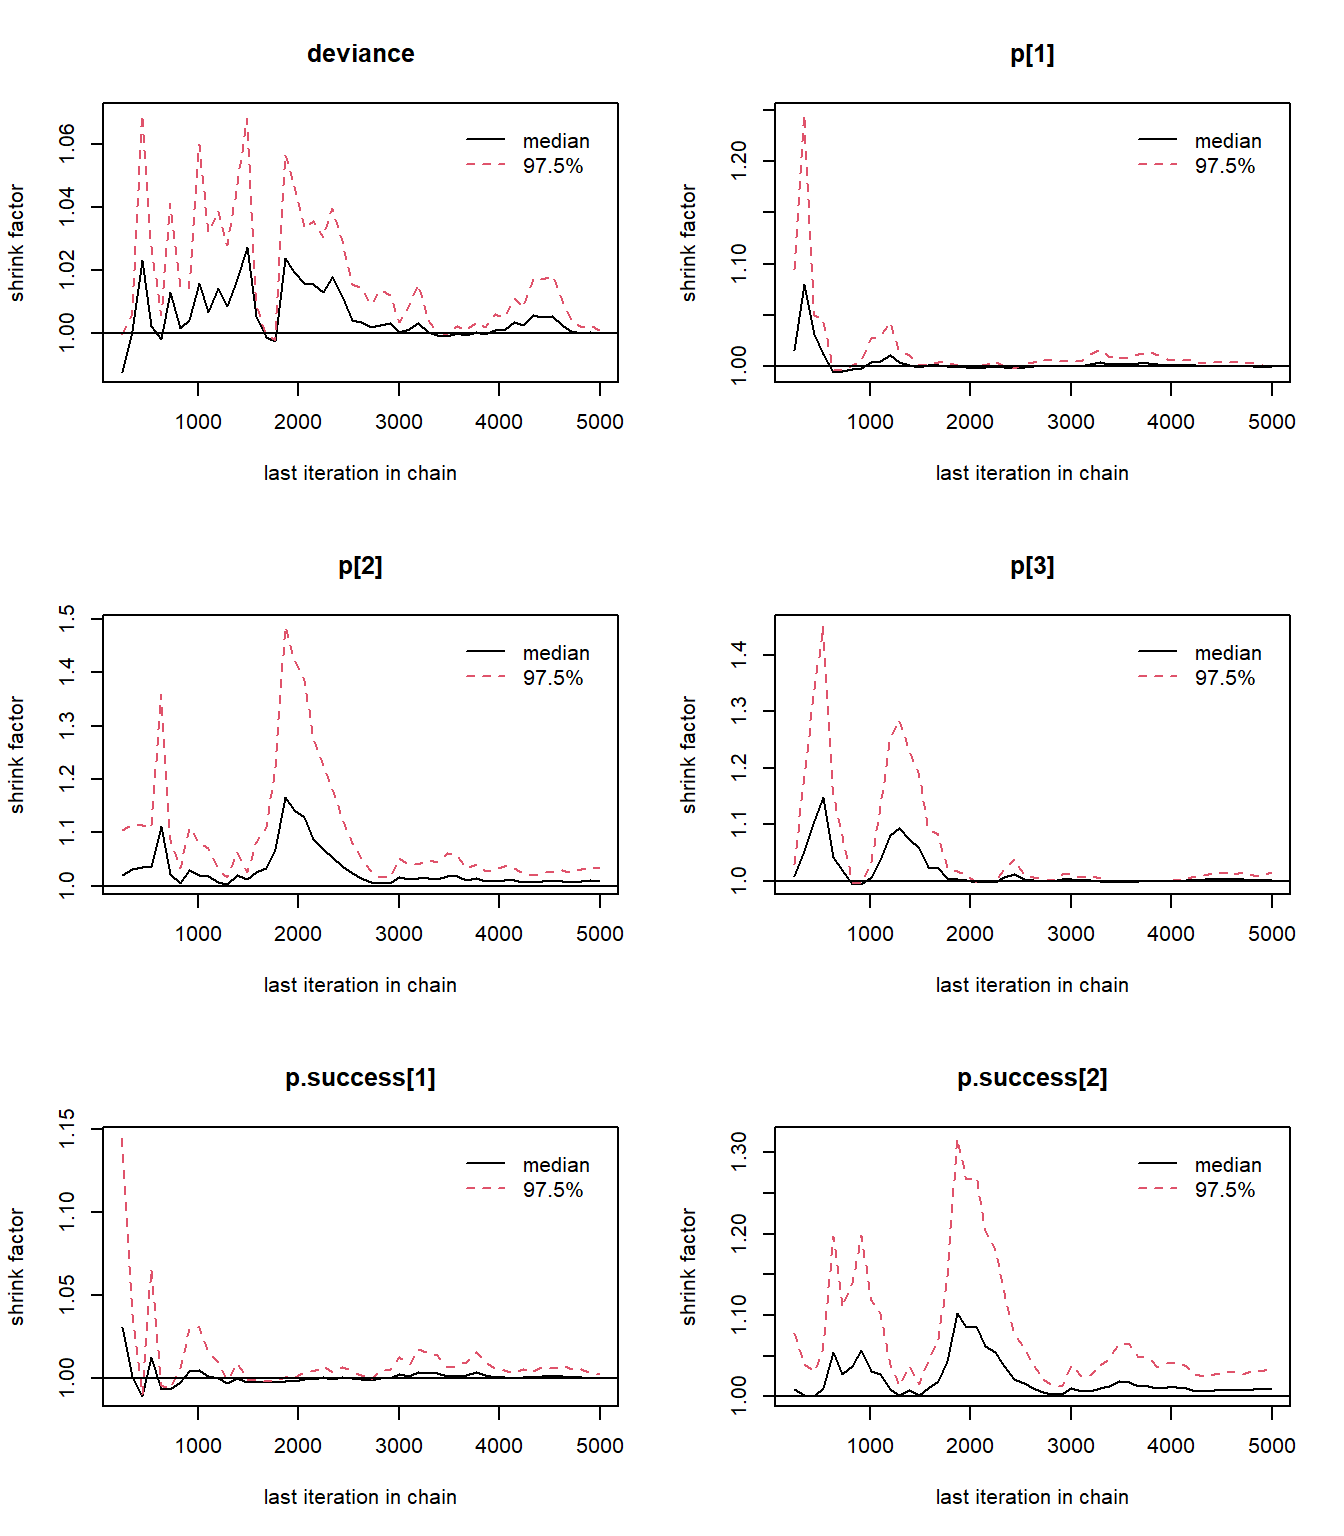
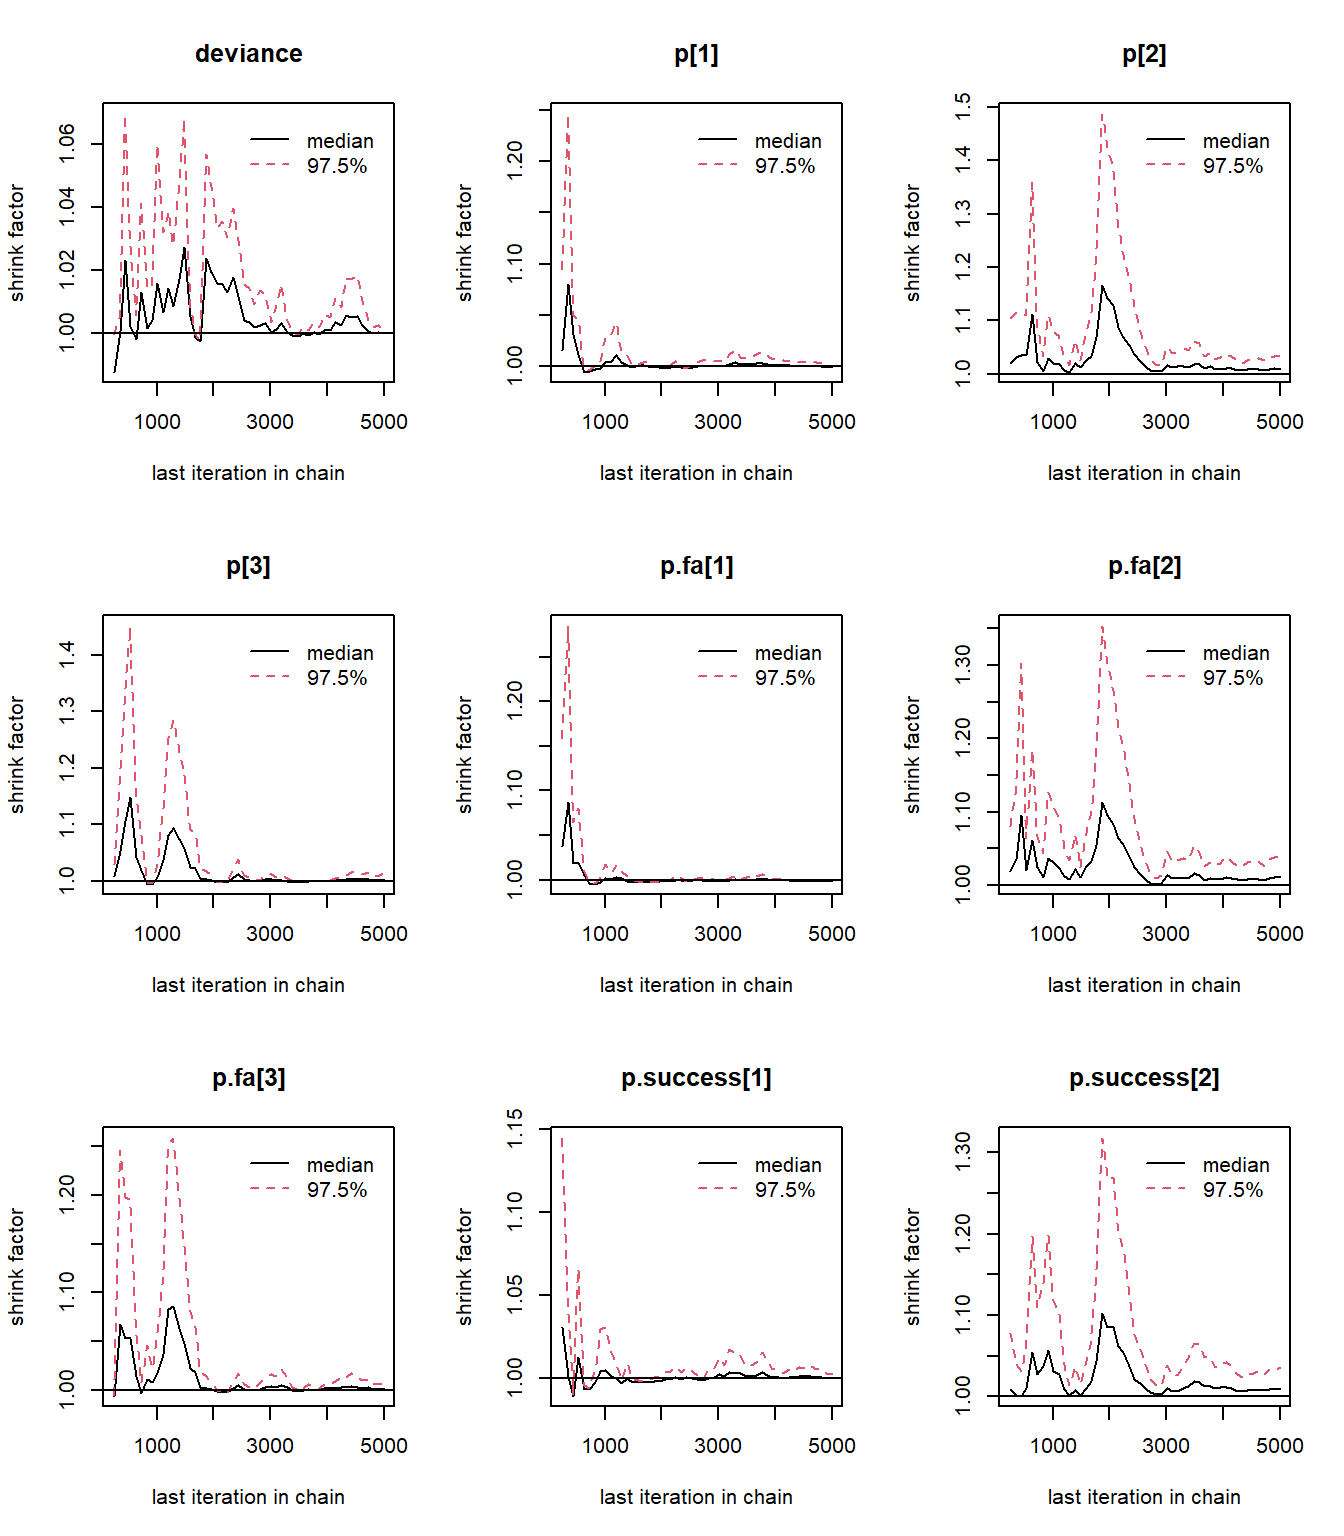
aaa

diff --git a/1_Bouquet_Borrowing_X_Cohort.html b/1_Bouquet_Borrowing_X_Cohort.html
@@ -284,8 +284,9 @@ binary_exnex_model2 &lt;- function() {
 ## Parameter(s) to be monitored
 # p            - posterior response rate
 # p.success    - posterior indicator if p &gt; p.cut
+# p.fa         - posterior predictive observed response rate at FA
 # pMix         - posterior mixture weight to test for &quot;exchangeability&quot;
-# p.success_fa - posterior indicator if r_fa/n_fa &gt; p.cut
+# p.success_fa - posterior predictive indicator if r_fa/n_fa &gt; p.cut
 #-------------------------------------------------------------------------------
   
   # prior distributions for EX-parameters
@@ -343,11 +344,11 @@ binary_exnex_model2 &lt;- function() {
     }    
   }
 
-
   # predictive part
   for (i in 1:Nstrata) {  
     r_fa[i] ~ dbin(p[i], n_fa[i])
-    p.success_fa[i]  &lt;- step(r_fa[i]/n_fa[i]-p.cut)
+    p.fa[i] &lt;- r_fa[i]/n_fa[i]
+    p.success_fa[i]  &lt;- step(p.fa[i]-p.cut)
   }
   
 } # end of binary_exnex_model2
@@ -355,7 +356,7 @@ binary_exnex_model2 &lt;- function() {
 write.model(binary_exnex_model2, &#39;binary_exnex_model2.bug&#39;)
 
 ### Parameters to monitor
-parameters_binary_exnex_model2 &lt;- c(&#39;p&#39;, &#39;pMix&#39;, &#39;p.success&#39;, &#39;p.success_fa&#39;)
+parameters_binary_exnex_model2 &lt;- c(&#39;p&#39;, &#39;pMix&#39;, &#39;p.fa&#39;, &#39;p.success&#39;, &#39;p.success_fa&#39;)
 
 ### Data
 n &lt;- c(&#39;cobi&#39;=19, &#39;atz+bev&#39;=21, &#39;ipat+pac&#39;=20)
@@ -429,6 +430,9 @@ binary_exnex_jag2 &lt;- jags(data = data_binary_exnex_model2,
 ## p[1]              0.164   0.069 0.050 0.113  0.156  0.207  0.317 1.001  3000
 ## p[2]              0.154   0.064 0.048 0.107  0.148  0.193  0.291 1.004  1100
 ## p[3]              0.220   0.079 0.090 0.162  0.212  0.269  0.395 1.001  3000
+## p.fa[1]           0.162   0.084 0.020 0.100  0.160  0.220  0.360 1.001  3000
+## p.fa[2]           0.155   0.080 0.020 0.100  0.140  0.200  0.320 1.001  3000
+## p.fa[3]           0.221   0.099 0.060 0.140  0.220  0.280  0.440 1.001  3000
 ## p.success[1]      0.536   0.499 0.000 0.000  1.000  1.000  1.000 1.001  3000
 ## p.success[2]      0.491   0.500 0.000 0.000  0.000  1.000  1.000 1.002  1200
 ## p.success[3]      0.802   0.398 0.000 1.000  1.000  1.000  1.000 1.002  1300
@@ -468,6 +472,9 @@ binary_exnex_mcmc2 %&gt;% summary</code></pre>
 ## p[1]             0.1638 0.06938 0.001267       0.001311
 ## p[2]             0.1539 0.06370 0.001163       0.001174
 ## p[3]             0.2196 0.07901 0.001443       0.001615
+## p.fa[1]          0.1622 0.08426 0.001538       0.001563
+## p.fa[2]          0.1549 0.07976 0.001456       0.001468
+## p.fa[3]          0.2215 0.09864 0.001801       0.001873
 ## p.success[1]     0.5357 0.49881 0.009107       0.009095
 ## p.success[2]     0.4913 0.50001 0.009129       0.009204
 ## p.success[3]     0.8023 0.39831 0.007272       0.007776
@@ -491,6 +498,9 @@ binary_exnex_mcmc2 %&gt;% summary</code></pre>
 ## p[1]            0.05005 0.1133  0.1565  0.2068  0.3175
 ## p[2]            0.04785 0.1074  0.1483  0.1934  0.2907
 ## p[3]            0.09022 0.1617  0.2119  0.2688  0.3954
+## p.fa[1]         0.02000 0.1000  0.1600  0.2200  0.3600
+## p.fa[2]         0.02000 0.1000  0.1400  0.2000  0.3200
+## p.fa[3]         0.06000 0.1400  0.2200  0.2800  0.4400
 ## p.success[1]    0.00000 0.0000  1.0000  1.0000  1.0000
 ## p.success[2]    0.00000 0.0000  0.0000  1.0000  1.0000
 ## p.success[3]    0.00000 1.0000  1.0000  1.0000  1.0000
@@ -509,7 +519,7 @@ binary_exnex_mcmc2 %&gt;% summary</code></pre>
 <pre class="r"><code>binary_exnex_mcmc2 %&gt;% gelman.plot</code></pre>
 <p><img src="1_Bouquet_Borrowing_X_Cohort_files/figure-html/unnamed-chunk-1-1.png" width="672" /><img src="1_Bouquet_Borrowing_X_Cohort_files/figure-html/unnamed-chunk-1-2.png" width="672" /><img src="1_Bouquet_Borrowing_X_Cohort_files/figure-html/unnamed-chunk-1-3.png" width="672" /></p>
 <pre class="r"><code>binary_exnex_mcmc2 %&gt;% plot</code></pre>
-<p><img src="1_Bouquet_Borrowing_X_Cohort_files/figure-html/unnamed-chunk-1-4.png" width="672" /><img src="1_Bouquet_Borrowing_X_Cohort_files/figure-html/unnamed-chunk-1-5.png" width="672" /><img src="1_Bouquet_Borrowing_X_Cohort_files/figure-html/unnamed-chunk-1-6.png" width="672" /><img src="1_Bouquet_Borrowing_X_Cohort_files/figure-html/unnamed-chunk-1-7.png" width="672" /><img src="1_Bouquet_Borrowing_X_Cohort_files/figure-html/unnamed-chunk-1-8.png" width="672" /></p>
+<p><img src="1_Bouquet_Borrowing_X_Cohort_files/figure-html/unnamed-chunk-1-4.png" width="672" /><img src="1_Bouquet_Borrowing_X_Cohort_files/figure-html/unnamed-chunk-1-5.png" width="672" /><img src="1_Bouquet_Borrowing_X_Cohort_files/figure-html/unnamed-chunk-1-6.png" width="672" /><img src="1_Bouquet_Borrowing_X_Cohort_files/figure-html/unnamed-chunk-1-7.png" width="672" /><img src="1_Bouquet_Borrowing_X_Cohort_files/figure-html/unnamed-chunk-1-8.png" width="672" /><img src="1_Bouquet_Borrowing_X_Cohort_files/figure-html/unnamed-chunk-1-9.png" width="672" /></p>
 </div>
 <div
 id="winbugs-model-for-binary-exnex-model-with-fixed-mixture-weights"
@@ -543,8 +553,9 @@ binary_exnex_model &lt;- function() {
   
 ## Parameter(s) to be monitored
 # p            - posterior response rate
+# p.fa         - posterior predictive observed response rate at FA  
 # p.success    - posterior indicator if p &gt; p.cut
-# p.success_fa - posterior indicator if r_fa/n_fa &gt; p.cut
+# p.success_fa - posterior predictive indicator if r_fa/n_fa &gt; p.cut
 #-------------------------------------------------------------------------------
   
   # prior distributions for EX-parameters
@@ -594,14 +605,15 @@ binary_exnex_model &lt;- function() {
   # predictive part
   for (i in 1:Nstrata) {  
     r_fa[i] ~ dbin(p[i], n_fa[i])
-    p.success_fa[i]  &lt;- step(r_fa[i]/n_fa[i]-p.cut)
+    p.fa[i] &lt;- r_fa[i]/n_fa[i]
+    p.success_fa[i]  &lt;- step(p.fa[i]-p.cut)
   }
 } # end of binary_exnex_model
 
 write.model(binary_exnex_model, &#39;binary_exnex_model.bug&#39;)
 
 ### Parameters to monitor
-parameters_binary_exnex_model &lt;- c(&#39;p&#39;, &#39;p.success&#39;, &#39;p.success_fa&#39;)
+parameters_binary_exnex_model &lt;- c(&#39;p&#39;, &#39;p.fa&#39;, &#39;p.success&#39;, &#39;p.success_fa&#39;)
 
 ### Data
 data_binary_ex_model &lt;-    list(pMix=cbind(c(1,0,0), c(1,0,0), c(1,0,0)), 
@@ -659,6 +671,9 @@ binary_ex_jag &lt;- jags(data = data_binary_ex_model,
 ## p[1]              0.171   0.063 0.062 0.127  0.165  0.210  0.310 1.001  3000
 ## p[2]              0.166   0.061 0.066 0.122  0.160  0.202  0.308 1.003   830
 ## p[3]              0.203   0.070 0.091 0.153  0.193  0.243  0.366 1.004   620
+## p.fa[1]           0.171   0.082 0.040 0.120  0.160  0.220  0.360 1.001  3000
+## p.fa[2]           0.166   0.081 0.040 0.100  0.160  0.220  0.340 1.001  2000
+## p.fa[3]           0.202   0.088 0.060 0.140  0.200  0.260  0.400 1.003   870
 ## p.success[1]      0.594   0.491 0.000 0.000  1.000  1.000  1.000 1.001  3000
 ## p.success[2]      0.573   0.495 0.000 0.000  1.000  1.000  1.000 1.003   880
 ## p.success[3]      0.767   0.423 0.000 1.000  1.000  1.000  1.000 1.002  1400
@@ -689,6 +704,9 @@ binary_ex_mcmc %&gt;% summary</code></pre>
 ## p[1]             0.1706 0.06302 0.001151       0.001403
 ## p[2]             0.1659 0.06123 0.001118       0.001955
 ## p[3]             0.2033 0.07032 0.001284       0.002235
+## p.fa[1]          0.1708 0.08212 0.001499       0.001607
+## p.fa[2]          0.1664 0.08062 0.001472       0.002095
+## p.fa[3]          0.2016 0.08831 0.001612       0.002446
 ## p.success[1]     0.5940 0.49117 0.008967       0.010056
 ## p.success[2]     0.5727 0.49477 0.009033       0.013567
 ## p.success[3]     0.7667 0.42302 0.007723       0.010727
@@ -703,6 +721,9 @@ binary_ex_mcmc %&gt;% summary</code></pre>
 ## p[1]            0.06250 0.1268  0.1648  0.2100  0.3096
 ## p[2]            0.06605 0.1223  0.1600  0.2020  0.3080
 ## p[3]            0.09142 0.1527  0.1930  0.2426  0.3657
+## p.fa[1]         0.04000 0.1200  0.1600  0.2200  0.3600
+## p.fa[2]         0.04000 0.1000  0.1600  0.2200  0.3400
+## p.fa[3]         0.06000 0.1400  0.2000  0.2600  0.4000
 ## p.success[1]    0.00000 0.0000  1.0000  1.0000  1.0000
 ## p.success[2]    0.00000 0.0000  1.0000  1.0000  1.0000
 ## p.success[3]    0.00000 1.0000  1.0000  1.0000  1.0000
@@ -736,6 +757,9 @@ binary_nex_jag &lt;- jags(data = data_binary_nex_model,
 ## p[1]              0.158   0.081 0.035  0.098  0.146  0.209  0.344 1.001  3000
 ## p[2]              0.142   0.075 0.030  0.085  0.132  0.190  0.317 1.011   200
 ## p[3]              0.246   0.091 0.097  0.180  0.239  0.304  0.444 1.005   540
+## p.fa[1]           0.160   0.095 0.020  0.080  0.140  0.220  0.380 1.001  3000
+## p.fa[2]           0.142   0.089 0.020  0.080  0.120  0.200  0.360 1.010   210
+## p.fa[3]           0.247   0.108 0.060  0.160  0.240  0.320  0.480 1.003   670
 ## p.success[1]      0.482   0.500 0.000  0.000  0.000  1.000  1.000 1.002  1900
 ## p.success[2]      0.409   0.492 0.000  0.000  0.000  1.000  1.000 1.010   220
 ## p.success[3]      0.852   0.355 0.000  1.000  1.000  1.000  1.000 1.003  1000
@@ -766,6 +790,9 @@ binary_nex_mcmc %&gt;% summary</code></pre>
 ## p[1]             0.1582 0.08140 0.001486       0.001486
 ## p[2]             0.1422 0.07496 0.001369       0.003226
 ## p[3]             0.2461 0.09089 0.001659       0.002867
+## p.fa[1]          0.1597 0.09513 0.001737       0.001737
+## p.fa[2]          0.1424 0.08851 0.001616       0.003380
+## p.fa[3]          0.2469 0.10833 0.001978       0.003072
 ## p.success[1]     0.4820 0.49976 0.009124       0.009327
 ## p.success[2]     0.4087 0.49167 0.008977       0.017289
 ## p.success[3]     0.8517 0.35549 0.006490       0.009896
@@ -780,6 +807,9 @@ binary_nex_mcmc %&gt;% summary</code></pre>
 ## p[1]            0.03546  0.09807  0.1460  0.2089  0.3444
 ## p[2]            0.02997  0.08499  0.1317  0.1901  0.3168
 ## p[3]            0.09680  0.17980  0.2388  0.3035  0.4441
+## p.fa[1]         0.02000  0.08000  0.1400  0.2200  0.3800
+## p.fa[2]         0.02000  0.08000  0.1200  0.2000  0.3600
+## p.fa[3]         0.06000  0.16000  0.2400  0.3200  0.4800
 ## p.success[1]    0.00000  0.00000  0.0000  1.0000  1.0000
 ## p.success[2]    0.00000  0.00000  0.0000  1.0000  1.0000
 ## p.success[3]    0.00000  1.00000  1.0000  1.0000  1.0000
@@ -797,11 +827,24 @@ class="section level2" number="0.3">
 <h2><span class="header-section-number">0.3</span> Credible interval for
 posterior distribution of “true” response rate</h2>
 <pre class="r"><code>### Credible interval for selected parameters
-mcmcplots::caterplot(binary_nex_jag, parms = c(&#39;p&#39;), add=F, col=&#39;red&#39;, labels=n%&gt;%names, cat.shift=-.2, reorder = F)
+mcmcplots::caterplot(binary_nex_jag, parms = c(&#39;p&#39;), add=F, col=&#39;red&#39;, labels=n%&gt;%names, cat.shift=-.2, reorder = F, main=&#39;Posterior distribution of true response rate&#39;)
 mcmcplots::caterplot(binary_exnex_jag2, parms = c(&#39;p&#39;), add=T, cat.shift=0, labels.loc=F, reorder = F)
 mcmcplots::caterplot(binary_ex_jag, parms = c(&#39;p&#39;), add=T, col=&#39;darkgreen&#39;, cat.shift=.2, labels.loc=F, reorder = F)
 legend(x=.35, y=1, lty=1, lwd=2, col=c(&#39;red&#39;, &#39;blue&#39;, &#39;darkgreen&#39;), legend=c(&#39;nex&#39;, &#39;exnex&#39;, &#39;fully ex&#39;))</code></pre>
 <p><img src="1_Bouquet_Borrowing_X_Cohort_files/figure-html/unnamed-chunk-3-1.png" width="672" /></p>
+</div>
+<div
+id="credible-interval-for-posterior-predictive-distribution-of-observed-hatp_fa"
+class="section level2" number="0.4">
+<h2><span class="header-section-number">0.4</span> Credible interval for
+posterior predictive distribution of observed <span
+class="math inline">\(\hat{p}_{FA}\)</span></h2>
+<pre class="r"><code>### Credible interval for selected parameters
+mcmcplots::caterplot(binary_nex_jag, parms = c(&#39;p.fa&#39;), add=F, col=&#39;red&#39;, labels=n%&gt;%names, cat.shift=-.2, reorder = F, main=&#39;Posterior predictive distribution of observed response rate at FA&#39;)
+mcmcplots::caterplot(binary_exnex_jag2, parms = c(&#39;p.fa&#39;), add=T, cat.shift=0, labels.loc=F, reorder = F)
+mcmcplots::caterplot(binary_ex_jag, parms = c(&#39;p.fa&#39;), add=T, col=&#39;darkgreen&#39;, cat.shift=.2, labels.loc=F, reorder = F)
+legend(x=.4, y=2.5, lty=1, lwd=2, col=c(&#39;red&#39;, &#39;blue&#39;, &#39;darkgreen&#39;), legend=c(&#39;nex&#39;, &#39;exnex&#39;, &#39;fully ex&#39;))</code></pre>
+<p><img src="1_Bouquet_Borrowing_X_Cohort_files/figure-html/unnamed-chunk-4-1.png" width="672" /></p>
 </div>
 
 
